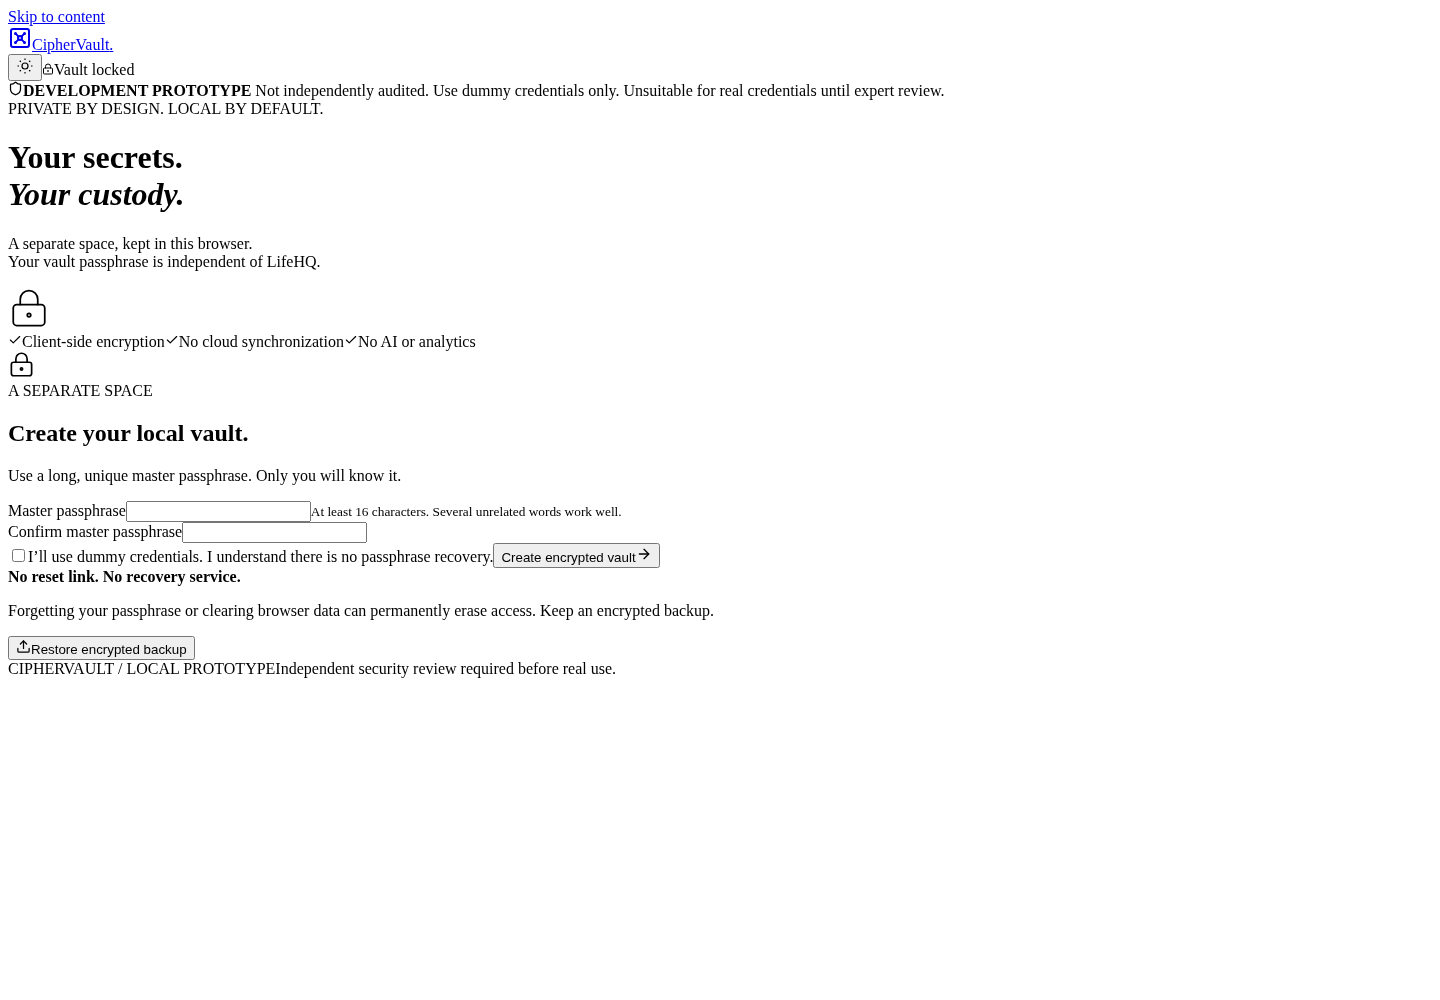
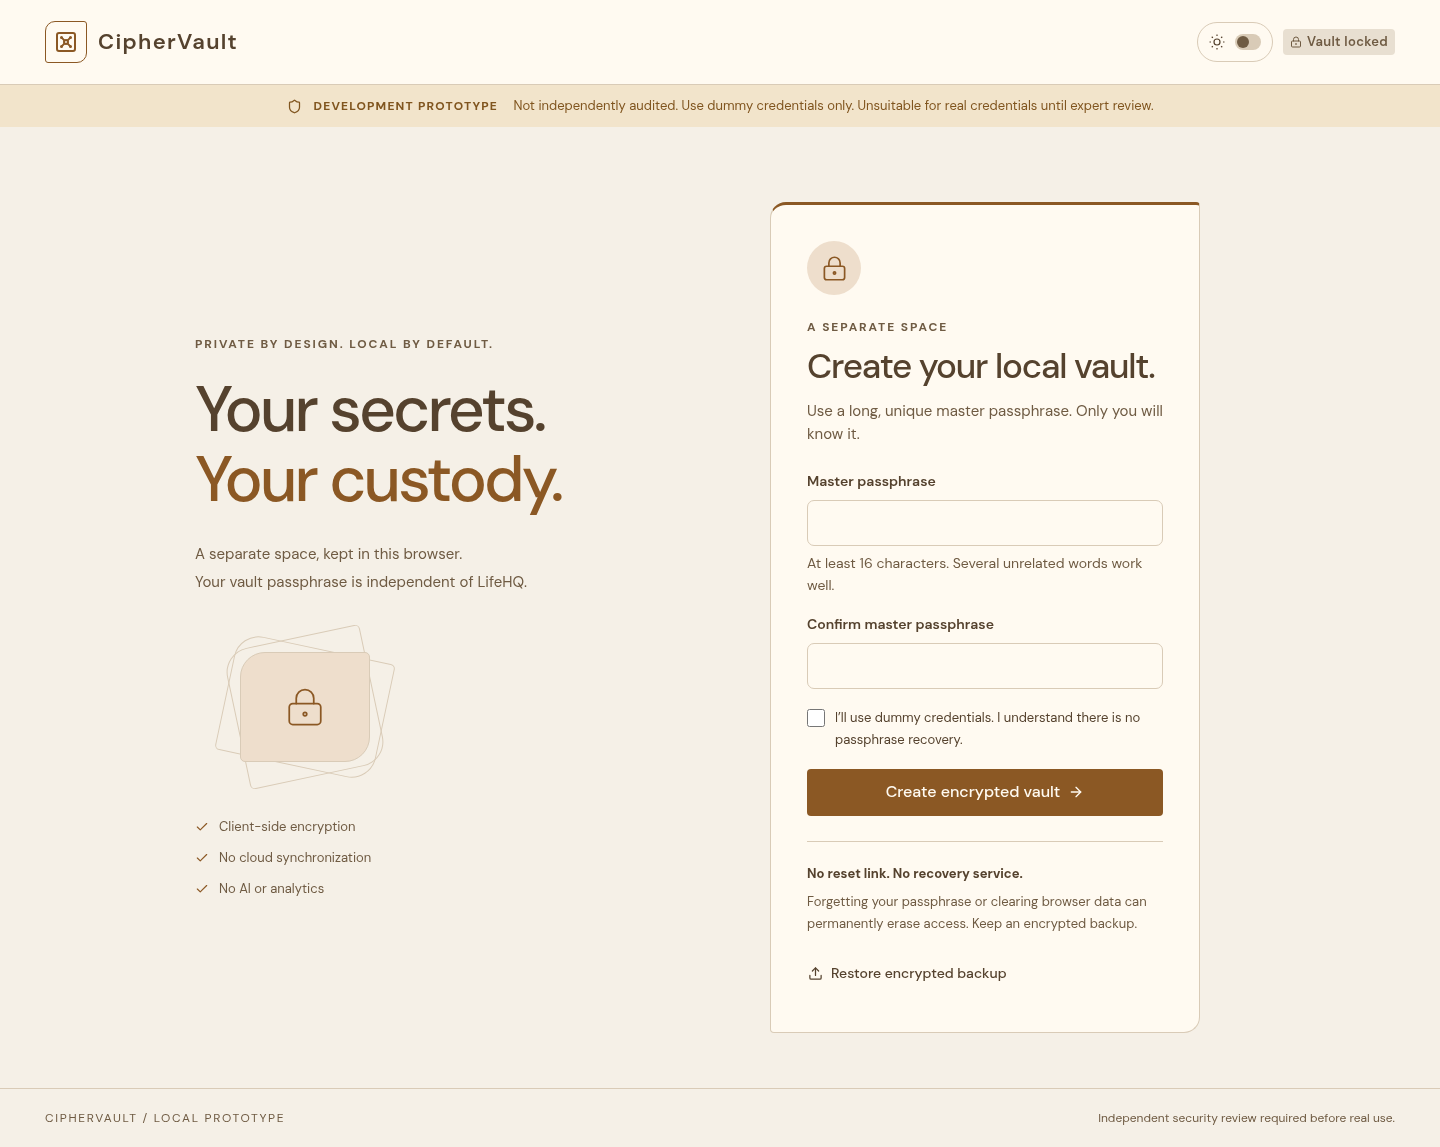
Keep CipherVault dark-theme controls readable during theme changes

diff --git a/tests/e2e/vault.spec.ts b/tests/e2e/vault.spec.ts
@@ -244,6 +244,27 @@ for (const width of [1440, 768, 390])
       path: `docs/screenshots/vault-unlocked-${width}.png`,
       fullPage: true,
     });
+    if (width === 1440) {
+      await page
+        .getByRole("switch", { name: "Dark theme", exact: true })
+        .click();
+      const unlockedScan = await new AxeBuilder({ page })
+        .withTags(["wcag2a", "wcag2aa", "wcag21aa", "wcag22aa"])
+        .analyze();
+      expect(
+        unlockedScan.violations.map((v) => ({
+          id: v.id,
+          nodes: v.nodes.map((n) => ({
+            target: n.target,
+            summary: n.failureSummary,
+          })),
+        })),
+      ).toEqual([]);
+      await page
+        .getByRole("switch", { name: "Dark theme", exact: true })
+        .click();
+    }
+
     expect(
       await page.evaluate(
         () => document.documentElement.scrollWidth > innerWidth + 1,

diff --git a/apps/ciphervault/app/styles.css b/apps/ciphervault/app/styles.css
@@ -18,7 +18,7 @@
   --ink: #fff0d8;
   --muted: #e3cdb0;
   --accent-primary: #f0c37d;
-  --accent-soft: #725a3d;
+  --accent-soft: #624932;
   --stone: #69553f;
   --line: #967a5b;
   --copper: #f5d092;
@@ -940,4 +940,8 @@
     padding-inline: 8px;
     gap: 4px;
   }
+}
+/* Theme changes must not blend a light button into a dark label. */
+.vault-app .button {
+  transition: transform 0.15s;
 }
